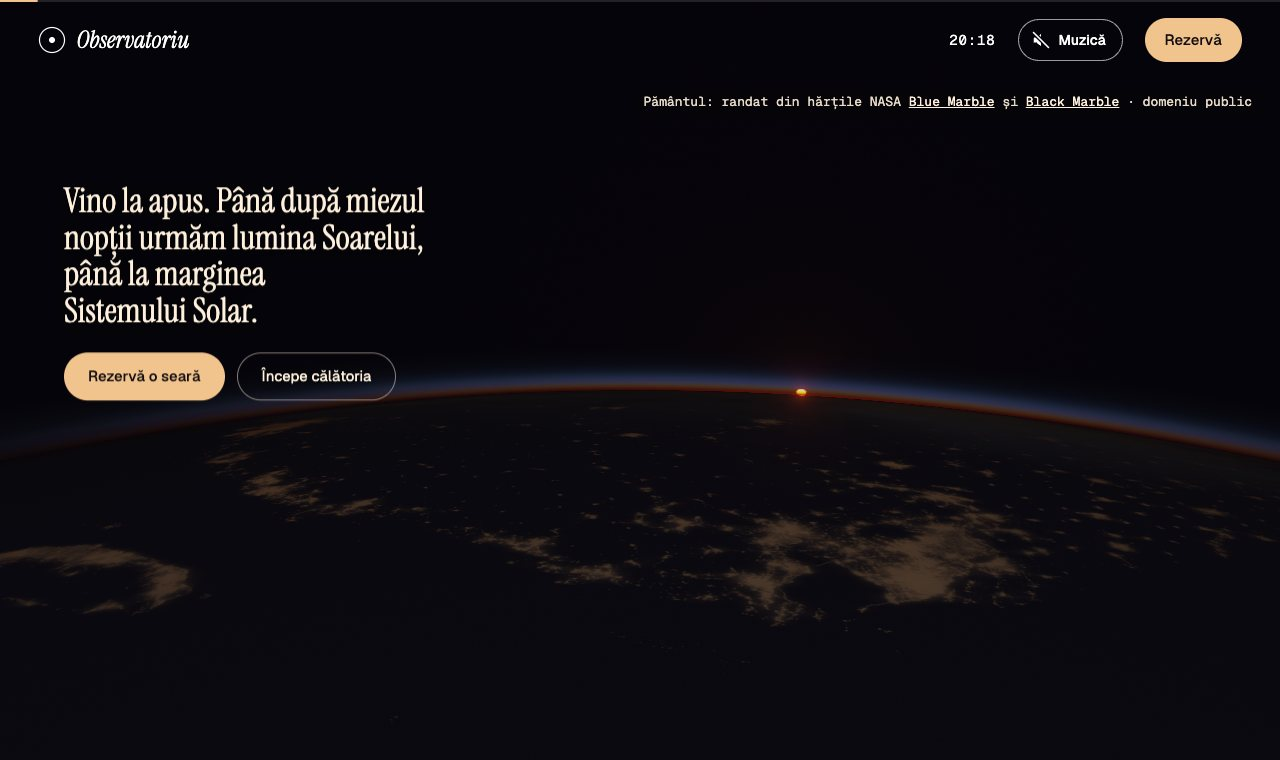
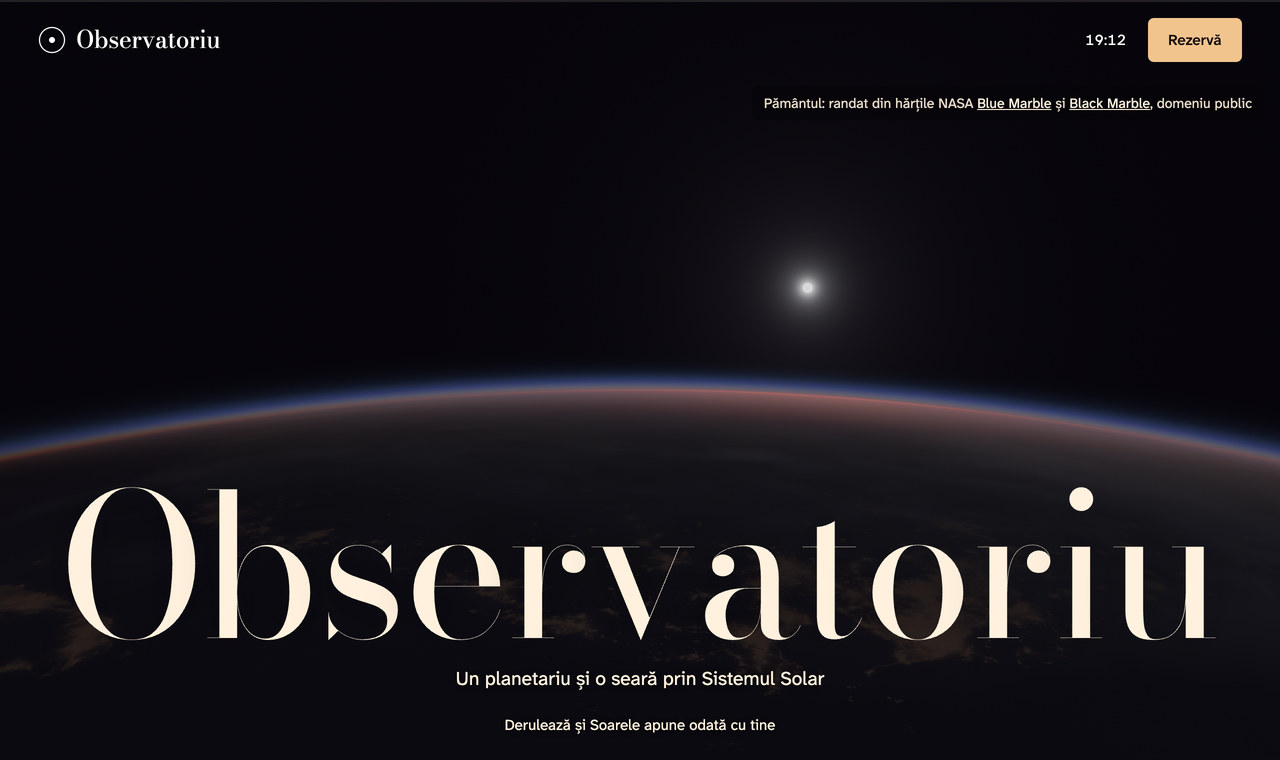
Pregătire pentru publicare: README, capturi, og.jpg

diff --git a/index.html b/index.html
@@ -7,7 +7,6 @@
 <meta name="description" content="Un planetariu demonstrativ, pe o singură pagină: derulezi de la apus până după miezul nopții și urmezi lumina Soarelui pe la Mercur, Venus, Pământ, Lună, Marte, Jupiter, Saturn, Uranus și Neptun.">
 <meta name="version" content="v12">
 <meta name="theme-color" content="#050409">
-<!-- adresa reală se completează la publicare (Etapa 4) -->
 <link rel="canonical" href="https://observatoriu1.pages.dev/">
 <link rel="icon" href="favicon.svg" type="image/svg+xml">
 <meta property="og:type" content="website">
@@ -16,10 +15,10 @@
 <meta property="og:title" content="Observatoriu: o seară prin Sistemul Solar">
 <meta property="og:description" content="De la apus până după miezul nopții: urmăm lumina Soarelui pe la toate cele opt planete. Un planetariu demonstrativ.">
 <meta property="og:url" content="https://observatoriu1.pages.dev/">
-<meta property="og:image" content="https://observatoriu1.pages.dev/og.jpg">
+<meta property="og:image" content="https://observatoriu1.pages.dev/og.jpg?v=2026112421">
 <meta property="og:image:width" content="1200">
 <meta property="og:image:height" content="630">
-<meta property="og:image:alt" content="Saturn cu inelele, pe cerul înstelat, și titlul Observatoriu">
+<meta property="og:image:alt" content="Saturn cu inelele, pe cerul înstelat, și titlul Observatoriu: un planetariu și o seară prin Sistemul Solar">
 <meta name="twitter:card" content="summary_large_image">
 <link rel="preload" href="fonts/bodoni-moda-latin-400.woff2" as="font" type="font/woff2" crossorigin>
 <!--critic-->

diff --git a/README.md b/README.md
@@ -2,15 +2,15 @@
 
 **Site:** https://observatoriu1.pages.dev
 
-> **In English:** a scroll-driven one-page site for a fictional planetarium. As you scroll, the evening goes from a sunset seen from orbit, up and away from Earth to the Sun, and on to past midnight, following sunlight past all eight planets and the Moon. Plain HTML, CSS and JavaScript (no framework). Everything is rendered live in WebGL2 from real NASA, ESA and JAXA maps: the opening orbital sunset (Rayleigh and Mie single scattering, Blue Marble and Black Marble maps), the Sun, the planets and the Moon. There are no image sequences. Assets load progressively. Lighthouse mobile scores 95+ in performance and 100 in the other categories. The full journey downloads about 14 MB on desktop and 3.3 MB on phones, down from 300 MB and 50 MB in the first version, and it scrolls at 60 fps. The planetarium, prices and events are fictional; the astronomical data is real.
+> **In English:** a scroll-driven one-page site for a fictional planetarium. As you scroll, the evening goes from a sunset seen from orbit, up and away from Earth to the Sun, and on to past midnight, following sunlight past all eight planets and the Moon. Plain HTML, CSS and JavaScript (no framework). Everything is rendered live in WebGL2 from real NASA, ESA and JAXA maps: the opening orbital sunset (Rayleigh and Mie single scattering, Blue Marble and Black Marble maps), the Sun, the planets and the Moon. There are no image sequences. The stars sit on a fixed celestial sphere and a faint layer of cosmic dust shows the motion. Type is set in Bodoni Moda and Atkinson Hyperlegible Next. The programme of evenings is computed live from real Moon phases, meteor showers and planet altitudes. There is no music and no eyepiece any more. Assets load progressively. Lighthouse mobile scores 98 to 99 in performance and 100 in the other categories. The page opens with about 0.85 MB on desktop and 0.62 MB on phones; the full journey downloads about 14 MB and 3.3 MB, down from 300 MB and 50 MB in the first version, and it scrolls at 60 fps. The planetarium, prices and events are fictional; the astronomical data is real.
 
 ![Apusul de început, văzut de pe orbită și randat live](docs/captura.jpg)
 
 ## Ce e
 
-Un planetariu **fictiv** și o seară întreagă pe o singură pagină. Derularea controlează totul. Pornești de la un apus văzut de pe orbită, randat live, urci de pe orbită până vezi Soarele răsărind de după Pământ și mergi spre exterior, pe urma luminii Soarelui: Mercur, Venus, Pământul, Luna, Marte, Jupiter, Saturn, Uranus și Neptun. La fiecare oprire afli câteva lucruri despre corpul respectiv. Ceasul din colț arată ora reală a serii, de la 19:12 până la 02:00. La final ai programul serilor și un bilet de rezervare.
+Un planetariu **fictiv** și o seară întreagă pe o singură pagină. Derularea controlează totul. Pornești de la un apus văzut de pe orbită, randat live, urci de pe orbită până vezi Soarele răsărind de după Pământ și mergi spre exterior, pe urma luminii Soarelui: Mercur, Venus, Pământul, Luna, Marte, Jupiter, Saturn, Uranus și Neptun. La fiecare oprire afli câteva lucruri despre corpul respectiv. Ceasul din colț arată ora reală a serii, de la 19:12 până la 02:00. La final ai programul serilor, calculat live pentru data de azi, și un bilet de rezervare. Site-ul nu are muzică.
 
-> **Planetariul, prețurile și evenimentele sunt fictive.** Datele astronomice sunt reale: distanțele, timpul în care lumina ajunge la fiecare planetă, faza Lunii și cerul din seara curentă, calculate cu Astronomy Engine.
+> **Planetariul, prețurile și evenimentele sunt fictive.** Datele astronomice sunt reale: distanțele, timpul în care lumina ajunge la fiecare planetă, faza Lunii, cerul din seara curentă și serile din program, calculate cu Astronomy Engine.
 
 ![Oprirea la Saturn](docs/saturn.jpg)
 
@@ -24,19 +24,23 @@ Un planetariu **fictiv** și o seară întreagă pe o singură pagină. Derulare
   - pe Soare, granulație animată și protuberanțe.
   
   Totul rulează într-un singur context WebGL, compus într-un canvas 2D.
-- **Apusul de început, randat live** (`js/intro.js`): camera stă la 400 km deasupra Mării Chinei de Est și privește spre Shanghai. Atmosfera e calculată cu împrăștiere simplă Rayleigh + Mie și absorbția ozonului, într-o tabelă mică (192 × 512) recalculată doar când Soarele se mișcă. Pământul folosește Blue Marble (ziua, norii) și Black Marble 2016 (luminile orașelor, decupaj regional la ~1 km pe pixel). Soarele e tăiat de Pământ, se înroșește și se turtește prin atmosferă; după apus apar luminile orașelor și aceleași stele ca în restul drumului. Primul cadru e o imagine statică (15 KB) randată de același shader, ca LCP; WebGL o preia fără salt. După apus camera urcă (până la ~120.000 km): Pământul devine un glob întunecat, cu inelul de atmosferă luminat din spate, Soarele reapare de după el, apoi drumul continuă spre Soare în aceeași scenă (un singur canvas, o singură secțiune fixată), fără ocular. Soarele se rotește (harta SDO pe sferă, fără întunecarea spre margine din imagine).
-- **Cerul:** stelele stau pe o sferă cerească (4.700 de direcții fixe) și se proiectează doar cu orientarea camerei: pe zborul drept stau pe loc, la întoarceri se rotesc toate împreună. Peste ele, un strat discret de „praf cosmic” în spațiul 3D din jurul camerei, vizibil doar în mișcare, fuge din punctul spre care zburăm.
+- **Apusul de început, randat live** (`js/intro.js`): camera stă la 400 km deasupra Mării Chinei de Est și privește spre Shanghai. Atmosfera e calculată cu împrăștiere simplă Rayleigh + Mie și absorbția ozonului, într-o tabelă mică (192 × 512) recalculată doar când Soarele se mișcă. Pământul folosește Blue Marble (ziua, norii) și Black Marble 2016 (luminile orașelor, decupaj regional la ~1 km pe pixel). Soarele e tăiat de Pământ, se înroșește și se turtește prin atmosferă; după apus apar luminile orașelor și aceleași stele ca în restul drumului. Primul cadru e o imagine statică (16 KB pe calculator, 7 KB pe telefon) randată de același shader, ca LCP; WebGL o preia fără salt. După apus camera urcă (până la ~120.000 km): Pământul devine un glob întunecat, cu inelul de atmosferă luminat din spate, Soarele reapare de după el, apoi drumul continuă spre Soare în aceeași scenă (un singur canvas, o singură secțiune fixată), fără ocular. Soarele se rotește (harta SDO pe sferă, fără întunecarea spre margine din imagine).
+- **Stelele fixe:** stau pe o sferă cerească (4.700 de direcții fixe, 55% din ele pe telefon) și se proiectează doar cu orientarea camerei: pe zborul drept stau pe loc, la întoarceri se rotesc toate împreună. Intro-ul desenează aceleași direcții, deci cerul nu se schimbă la trecerea spre drum.
+- **Praful cosmic:** un strat discret de particule (170, pe telefon 130) în spațiul 3D din jurul camerei, vizibil doar în mișcare, fuge din punctul spre care zburăm. Lipsește cu mișcare redusă.
+- **Tipografia:** titlurile în **Bodoni Moda** (variabil pe mărimea optică, drept), textul și cifrele în **Atkinson Hyperlegible Next** (cifre tabelare). Patru fișiere woff2, 93 KB, servite din site; se preîncarcă doar cel al titlului din intro. `js/titluri.js` alege rupturile titlurilor ca să nu rămână niciun cuvânt singur pe rând.
+- **Programul calculat live** (`js/program.js`): serile vin din cer, pentru data de azi, în fusul Europe/Chisinau: Luna la primul pătrar, următoarea ploaie de stele (cu iluminarea Lunii), planeta cea mai sus pe cer la 21:00 (cu altitudinea și direcția reale), plus spectacolele de vineri și sâmbătă. Nimic în trecut, luni închis. Astronomy Engine se descarcă abia după prima derulare. Aceleași seri ajung în formular, în bilet și în cartonașele din călătorie.
+- **Fără muzică și fără ocular:** drumul e o singură scenă, de pe orbită până la Neptun, în liniște.
 - **Încărcare treptată:** la pornire, doar imaginea statică a apusului; după afișare, cele trei hărți ale intro-ului. Hărțile planetelor vin abia după prima derulare, în ordinea drumului: corpul curent, următorul, cel de după. Cele rămase în urmă se eliberează din memoria GPU. Telefoanele primesc hărți mai mici.
 - **Accesibilitate:** navigare din tastatură, focus vizibil, contrast de cel puțin 4,5:1 pentru texte, mod pentru mișcare redusă și rezervă statică fără WebGL.
 - **Cifrele** (cache golit; măsurate local cu gzip, ca pe Cloudflare):
 
   | | prima versiune | acum |
   |---|---|---|
-  | tot drumul, calculator | ~300 MB | **~14 MB** |
-  | tot drumul, telefon | ~50 MB | **~3,3 MB** |
-  | la deschidere | 20 MB / 3,5 MB | **0,9 MB / 0,65 MB** |
-  | Lighthouse mobil | — | **95–100** / 100 / 100 / 100, TBT 0, CLS 0 |
-  | derulare | — | **60 fps** (p95 ≈ 16,7 ms, și pe telefon cu procesorul încetinit de 4×) |
+  | la deschidere, calculator / telefon | 20 MB / 3,5 MB | **0,85 MB / 0,62 MB** |
+  | tot drumul, calculator | ~300 MB | **14,0 MB** |
+  | tot drumul, telefon | ~50 MB | **3,3 MB** |
+  | Lighthouse mobil (performanță / accesibilitate / bune practici / SEO) | nemăsurat | **98–99** / 100 / 100 / 100, TBT 10–20 ms, CLS 0 |
+  | derulare | nemăsurată | **60 fps** (p95 16,7 ms, și pe telefon cu procesorul încetinit de 4×) |
 
 ## Structura
 
@@ -44,13 +48,19 @@ Un planetariu **fictiv** și o seară întreagă pe o singură pagină. Derulare
 index.html          pagina (CSS critic în <head>)
 css/style.css       restul stilurilor, încărcat după primul cadru
 js/main.js          pornirea: imaginea statică a apusului, apoi restul aplicației
-js/app.js           derularea, textele, ceasul, cuprinsul, programul și biletul
-js/journey.js       drumul: camera, stelele, asteroizii, opririle
+js/app.js           derularea, textele, ceasul, cuprinsul și biletul
+js/journey.js       drumul: camera, stelele fixe, praful cosmic, opririle
+js/program.js       programul serilor, calculat live din cer
+js/sky.js           cerul din seara asta (faza Lunii, planetele vizibile)
+js/astro.js         încărcarea comună a Astronomy Engine (după prima derulare)
+js/titluri.js       așezarea titlurilor (mărimea și rupturile rândurilor)
 js/globe.js         randarea WebGL2 a sferelor (shaderul) și contextul WebGL comun
 js/intro.js         apusul orbital: atmosfera, Pământul, Soarele, stelele (în același context)
 js/frames.js        setul de mărimi (telefon / calculator) și prima derulare
 js/vendor/          Astronomy Engine (MIT)
 media/              hărți (tex/), imagini statice (static/), video (d/ calculator, m/ telefon)
+fonts/              Bodoni Moda și Atkinson Hyperlegible Next (woff2) și licențele lor
+docs/               capturile din acest README
 _headers            cache lung pentru /media/* și /fonts/*, fără cache pentru HTML (Cloudflare Pages)
 ```
 
@@ -60,7 +70,7 @@ Ca să-l rulezi local, pornește orice server static din folderul proiectului, d
 
 | Ce | Sursa | Licența |
 |---|---|---|
-| Apusul de început (luminile orașelor) | [Black Marble 2016](https://science.nasa.gov/earth/earth-observatory/earth-at-night/maps/), NASA Earth Observatory (Suomi NPP VIIRS), placa D1 la 500 m | domeniu public |
+| Apusul de început (luminile orașelor) | [Black Marble 2016](https://science.nasa.gov/earth/earth-observatory/earth-at-night/maps/), NASA Earth Observatory (Suomi NPP VIIRS), placa D1 la 500 m și harta globală la 3 km | domeniu public |
 | Soarele | [NASA/SDO](https://sdo.gsfc.nasa.gov/), HMI Intensitygram 4096² și AIA 304, 9 mai 2024, prin [Helioviewer](https://helioviewer.org/) | domeniu public |
 | Mercur | [MESSENGER MDIS](https://astrogeology.usgs.gov/search/map/mercury_messenger_mdis_basemap_md3_color_global_mosaic_665m) (NASA/JHUAPL/Carnegie) | domeniu public |
 | Venus | [Akatsuki UVI](https://doi.org/10.17597/isas.darts/vco-00016) (JAXA/ISAS) | CC BY 4.0 |
